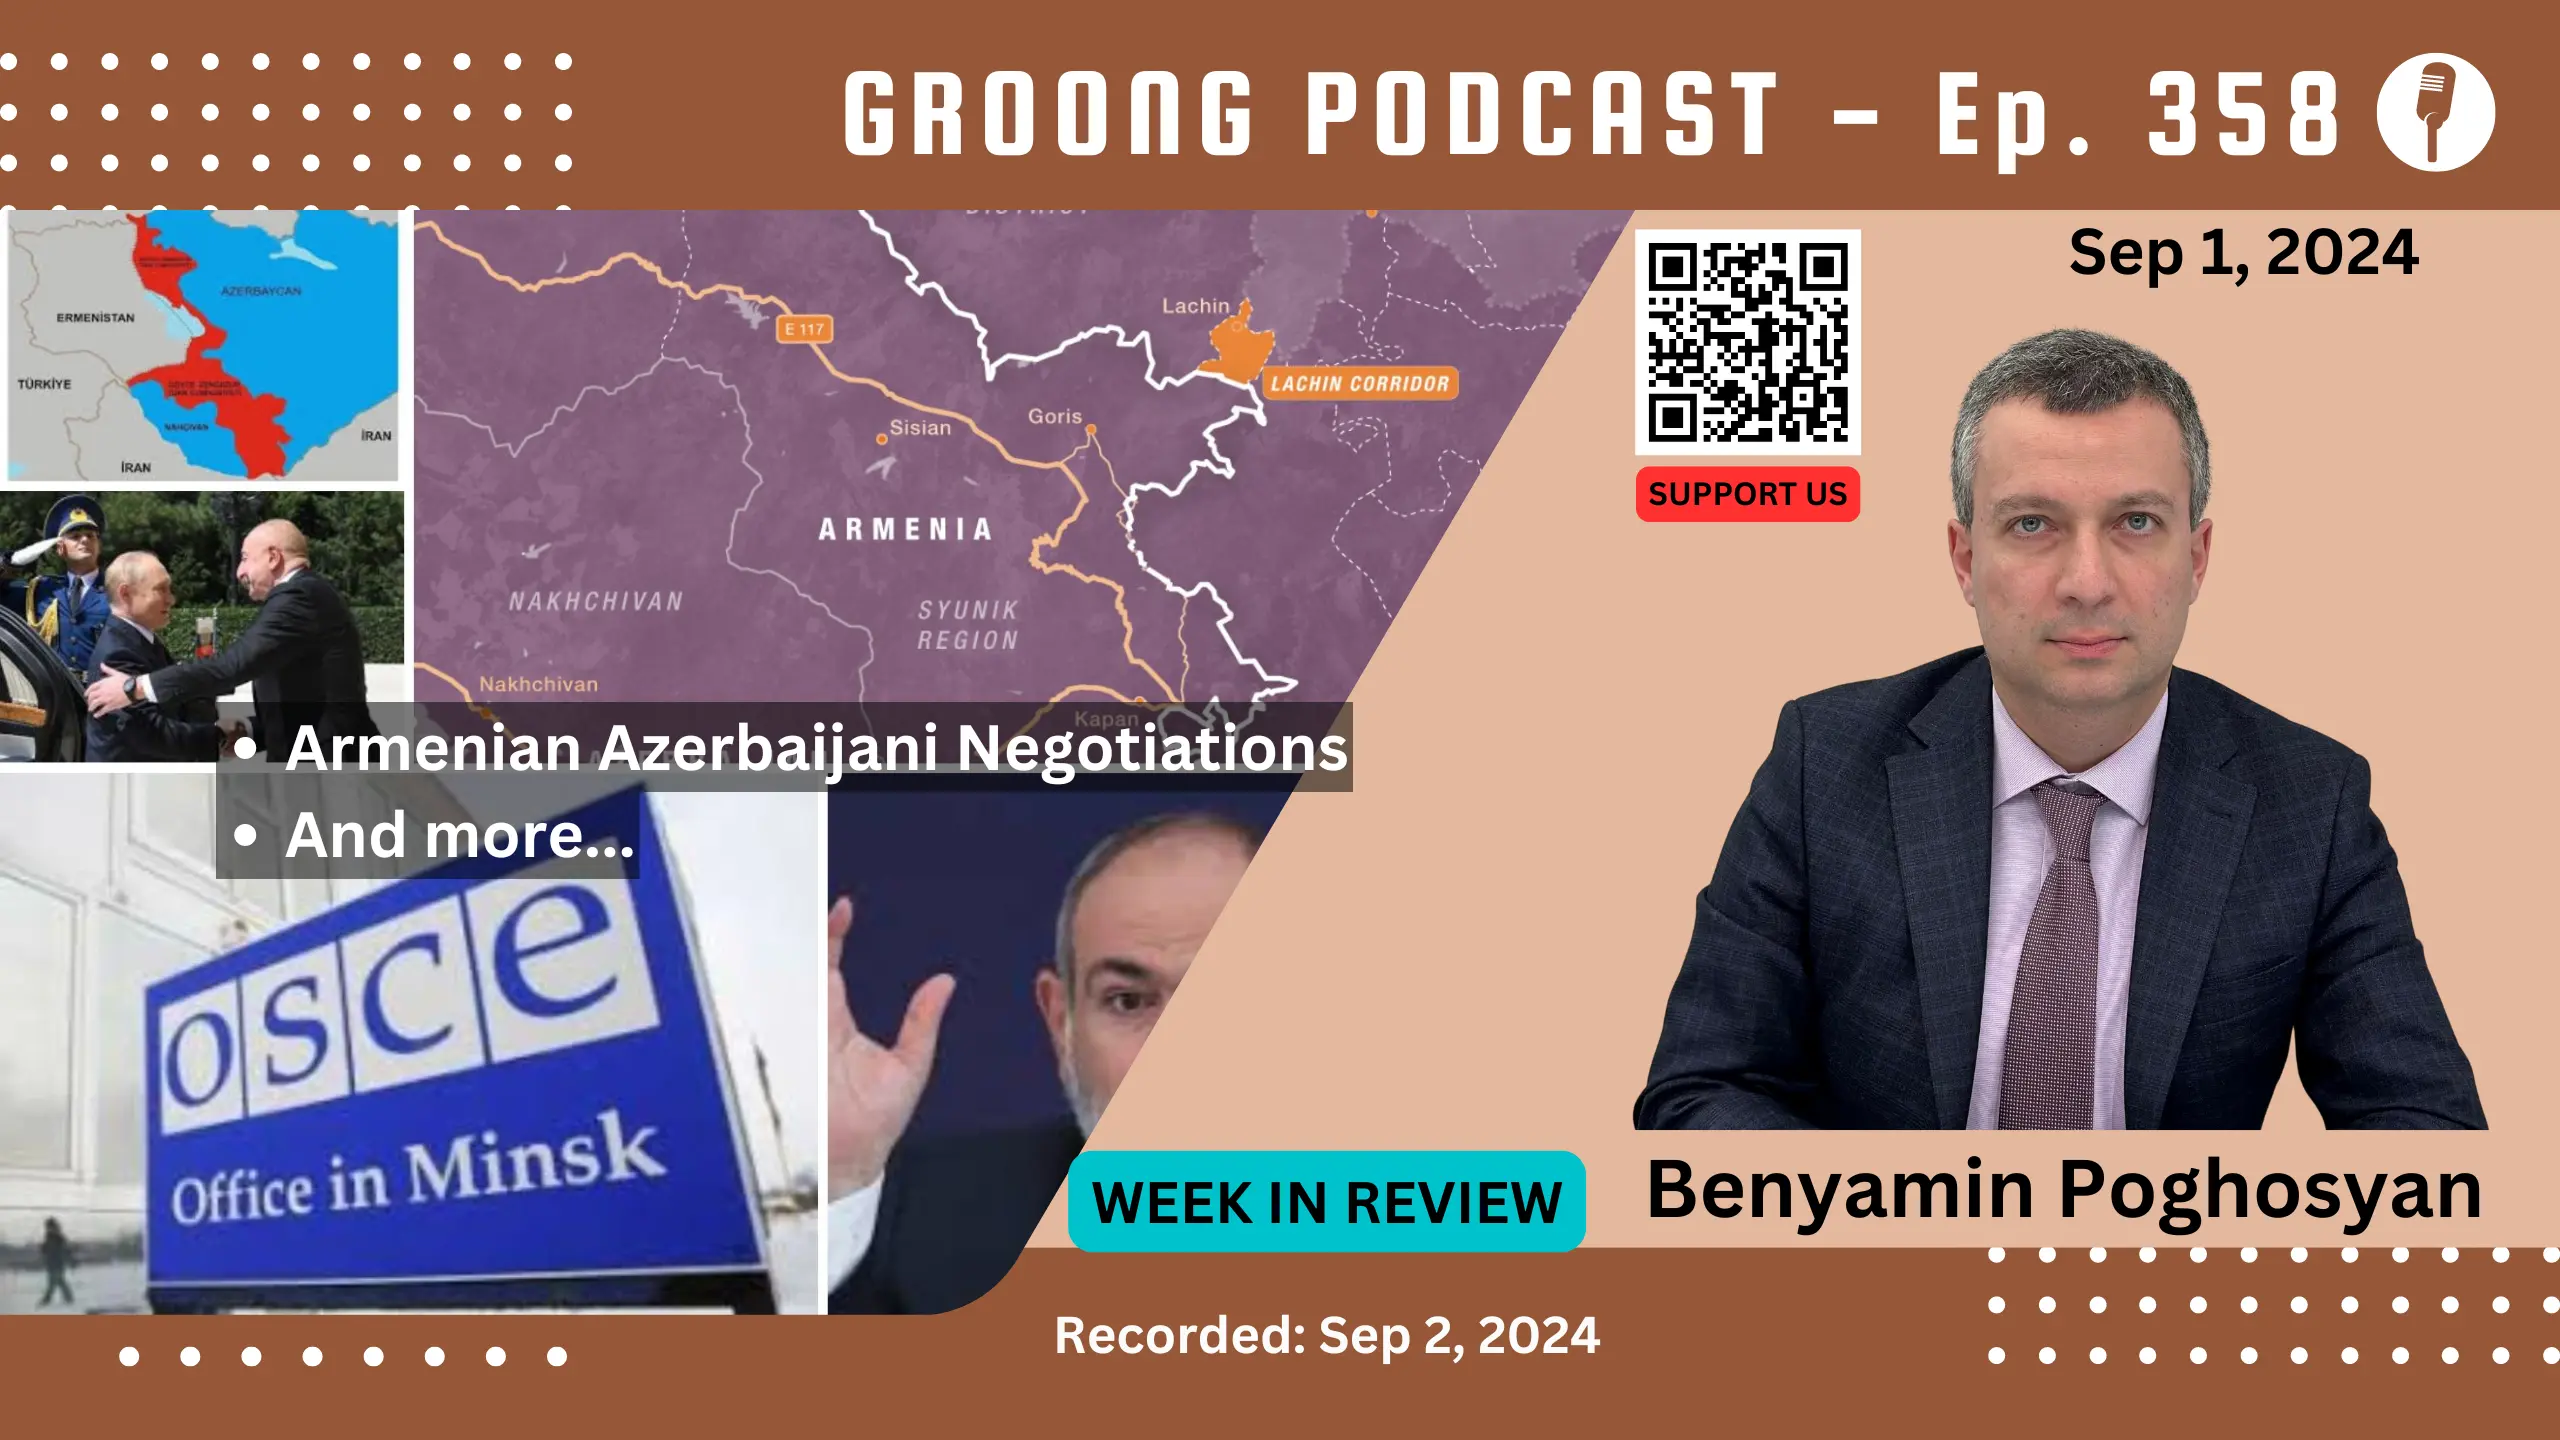
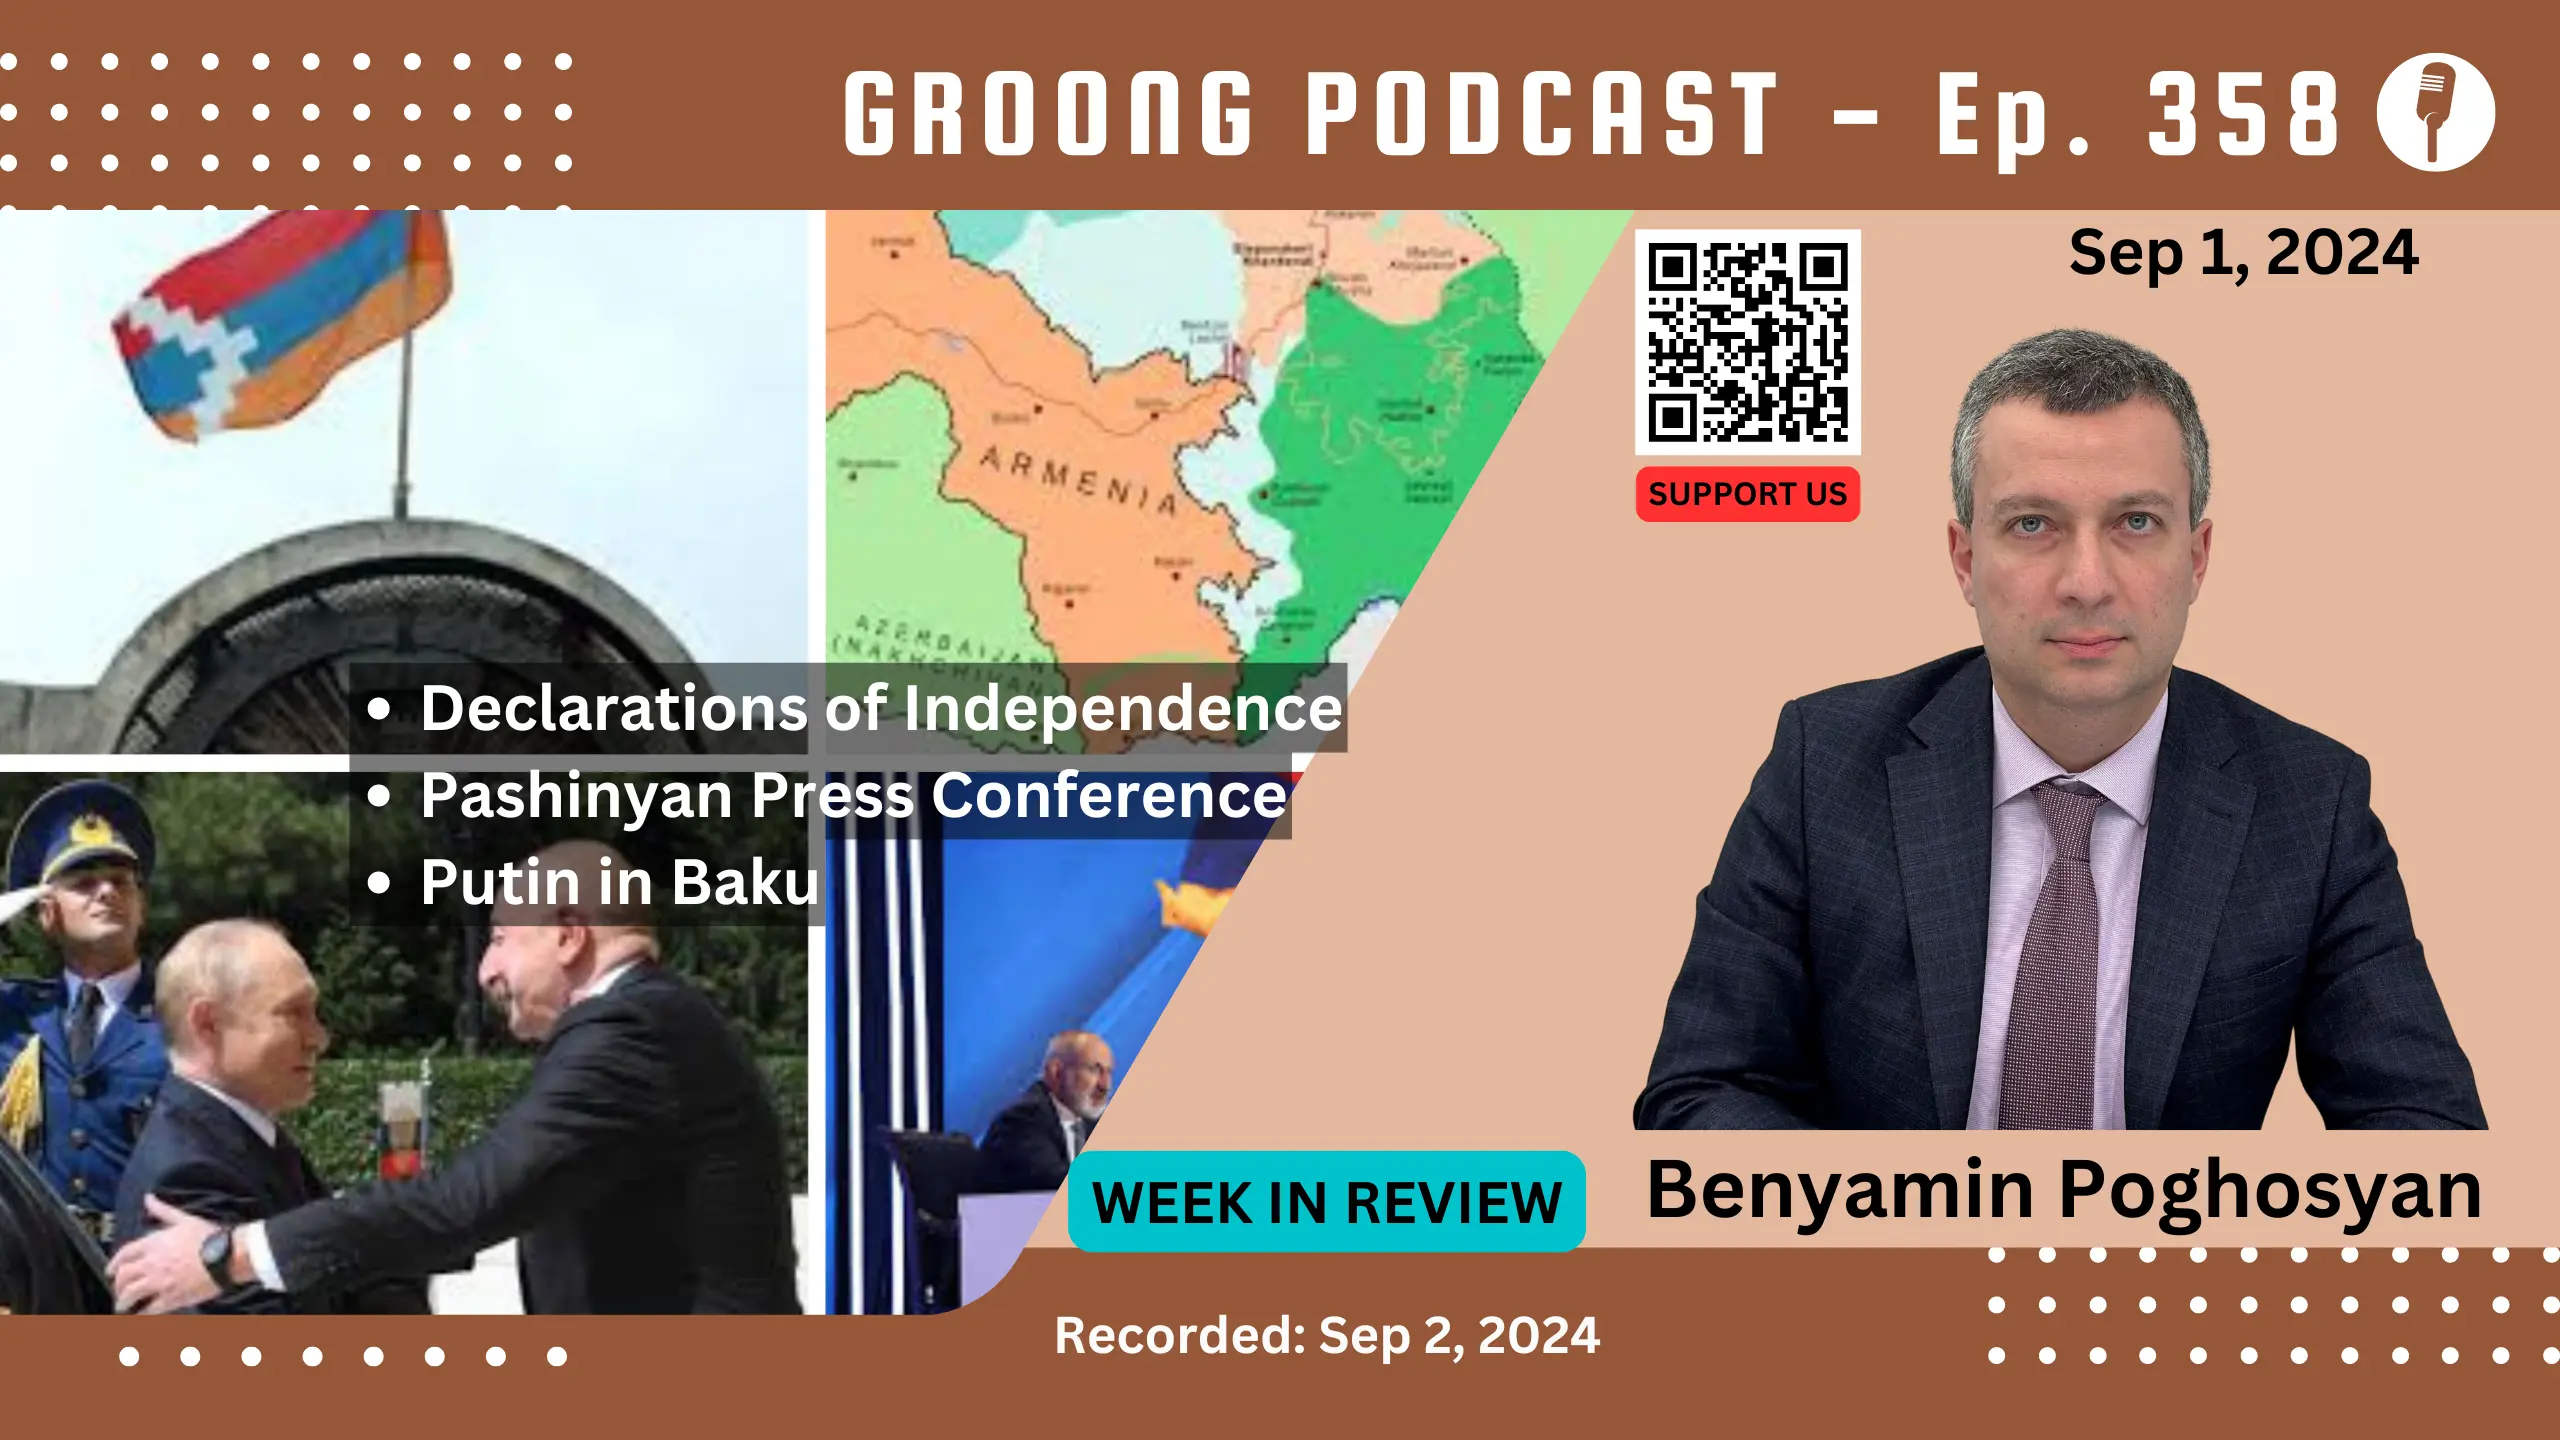
Updating ep 358

diff --git a/content/episode/358-benyamin-poghosyan-declarations-of-armenian-and-nagorno-karabakh-independence-putin-in-baku-azerbaijan-applies-to-brics.md b/content/episode/358-benyamin-poghosyan-declarations-of-armenian-and-nagorno-karabakh-independence-putin-in-baku-azerbaijan-applies-to-brics.md
@@ -1,0 +1,159 @@
++++
+
+Date = 2024-09-03T00:15:00-04:00
+upcoming = true
+
+title = "Benyamin Poghosyan - Armenia, Artsakh, Pashinyan Press Conf, Putin in Baku  | Ep 358 - Sep 1, 2024"
+subtitle = "Groong Week in Review - September 1, 2024"
+
+podcast_file = ""
+podcast_bytes = ""
+podcast_duration = ""
+youtube = ""
+
+episode_image = "img/episode/358/thumbnail-358.webp"
+episode_banner = "img/episode/358/banner-358.webp"
+images = ["img/episode/358/banner-358.webp"]
+
+hosts = ["asbed","hovik"]
+guests = ["bpoghosyan"]
+episode = "358"
+aliases = ["/358"]
+
+series = ["wir"]
+categories = ["Armenia", "Artsakh"]
+tags = ["Armenian News", "Artsakh", "Nagorno Karabakh", "Azerbaijan", "Peace Treaty", "Benyamin Poghosyan", "Agreement in Principle", "South Caucasus", "Turkey", "Russia", "Zangezur Corridor", "Borders", "Peace Negotiations", "United States", "Iran", "Russian Gas", "TANAP", "Trans Adriatic", "Middle Corridor", "North-South Corridor", "East-West Corridor", "Ilham Aliyev", "Vladimir Putin", "Nikol Pashinyan", "Azerbaijan China Partnership", "Georgia China Partnership", "September 2", "August 23", "Declaration of Independence"]
+
+Description = """
+
+#### Groong Links:
+* [GIVE to GROONG](https://podcasts.groong.org/donate)
+* [linktr.ee/Groong](https://linktr.ee/groong)
+
+#### Guest:
+* [Benyamin Poghosyan](/guest/bpoghosyan)
+
+#### Topics:
+* Armenia Azerbaijan Talks
+* Declarations of Independence
+    * Declaration of State Sovereignty of Armenia (1990)
+    * Artsakh Independence Day - September 2 (1991)
+* Pashinyan Press Conference
+    * Negotiations Formats
+    * Artsakh Rights & Security as Pashinyan’s “National Security” Problem
+    * Armenian and Azerbaijani Constitutions
+    * Liberating Occupied Armenian Territories
+* Putin in Baku
+    * Azerbaijan’s Application to BRICS
+
+Episode 358 | Recorded: September 2, 2024
+"""
+
++++
+
+## Declarations of Independence
+
+The past 10 days were memorable with 2 notable anniversaries:
+* On August 23, 1990 the declaration of state sovereignty was adopted in the Supreme Soviet of the Armenian SSR. 
+* On September 2, 1991 the Republic of Artsakh declared its independence from the Soviet Union.
+
+It is interesting to note that the August 23 declaration in Armenia referred to the desire to unify the Armenian SSR, Nagorno Karabakh (NKAO), and the region of Shahumyan. Meanwhile, a year later, the authorities of Artsakh at the time decided to go for full independence, with their declaration.
+
+And here we are, 33 years later from that date with an ethnically cleansed Artsakh and Azerbaijan demanding that Armenia’s own constitution be changed to remove any vestiges or reminders that there ever was something called Karabakh. And of course, we have a regime in Armenia that appears to be yielding to one demand after another. At best, Pashinyan is trying to wiggle away using word play.
+
+This week was no different as in a publicized [statement](https://www.primeminister.am/en/statements-and-messages/item/2024/08/23/Nikol-Pashinyan-Announcement/) on the occasion, Pashinyan tried to make the argument that the entire declaration of independence need not be addressed literally.
+
+**Question**:
+* What are your thoughts about the significance of this day, Pashinyan’s statement, and attempts to change the constitution?
+
+
+## Pashinyan Press Conference
+
+Two days ago on Saturday, August 31, Pashinyan held a [press conference](https://en.armradio.am/2024/08/31/live-prime-minister-nikol-pashinyans-press-conference-2/). Let’s review some of the points from that event.
+
+
+### Negotiation Formats
+
+He [said](https://armenpress.am/en/article/1198723) that on Friday (the 30th of August) Armenia proposed to Azerbaijan to sign the latest draft of the “peace treaty” as is, with 13 out of 17 points in the agreement fully agreed upon. The rest would be worked on, going forward. He [offered](https://armenpress.am/en/article/1198717) to meet Aliyev on the border between the two countries to discuss bilaterally. 
+
+Of course, Azerbaijan immediately [rejected](https://www.azatutyun.am/a/33102785.html) this idea, saying that the Pashinyan team had simply deleted the contentious references, including the demand to change Armenia’s constitution. It’s important to note that in these “bilateral negotiations” the sides appear to be simply emailing each other a Microsoft Word document, with “Track Changes” turned on.
+
+**Questions:**
+* Do you think there’s enough trust or goodwill between Armenia and Azerbaijan, or just between Pashinyan and Aliyev, that bilateral negotiations can yield any positive results for Armenia?
+* Do we know what the 17 points are, and which 13 points have been fully agreed upon?
+* Is Azerbaijan’s posture simply meant to throw a monkey wrench in the negotiations, and remove any possibility for a peace treaty, however vacuous that treaty will be?
+
+
+### Armenia and Azerbaijan Constitutions
+
+Pashinyan [stated](https://armenpress.am/en/article/1198730) that the Armenian constitution does not contain claims on Azeri territory, but Azerbaijan’s constitution does contain significant claims to Armenian, as well as Georgian territories. He pointed out that Azerbaijan lays claim to 45-46,000 square kilometers of additional territories in the South Caucasus, but that he’s not bringing up this issue in the negotiations because it would block the talks.
+
+Supposedly he’s relying on a clause in the agreement that stipulates that domestic law may not be used to block any part of the agreement.
+
+**Question:**
+* Does this stipulation in the agreement about domestic laws give you the warm and fuzzies about living securely in Armenia?
+
+
+### Artsakh Pashinyan’s National Security Problem?
+
+Pashinyan [blasted](https://armenpress.am/en/article/1198720) Artsakh officials in Armenia who have demanded that Armenia stand up for their right to return home. He said that their demands go counter to Armenia’s national security, and that the 1996 Lisbon Principles turned the Artsakh problem into an Armenia problem.
+
+He conveniently avoided discussing his washing of his hands of 150,000 Armenians, their homeland, and their rights and security, when he one-sidedly signed the Prague agreement in 2022.
+
+The Lisbon Principles stipulated territorial integrity of Armenia & Azerbaijan, legal status for Artsakh, and rights and security for them. Then came the Madrid Principles which stipulated territorial integrity of Armenia & Azerbaijan, self-determination for Artsakh, and right of return of all IDPs, rights & security, and demilitarization.
+
+**Questions:**
+* With what logic is Pashinyan blaming Artsakh for its own ethnic cleansing, and claiming that their rights and security, which Aliyev had agreed to, run counter to Armenia’s national security?
+* Pashinyan has reportedly also [agreed in principle](https://armenpress.am/en/article/1198727) to jointly apply to dissolve the OSCE MG. Does Pashinyan have the right to do this?
+
+
+### Liberating Armenian Sovereign Territories
+
+Pashinyan also [said](https://armenpress.am/en/article/1198731) that Armenia does not seek to restore its sovereignty over the 200 square kilometers of territory currently occupied by Azerbaijan, through military force. He said he believes that this can be done through peaceful negotiations.
+
+**Questions:**
+* Do you expect that Azerbaijan will peacefully move out of Armenian territory when a so-called “peace treaty” is signed?
+* Is this territorial restitution part of the 17 points in the document?
+    * Note: Aliyev has said he’s not moving his troops back one inch.
+
+
+## Putin in Azerbaijan
+
+Two weeks ago Russian president Putin was in Baku on a rare, but lavish [two-day state visit](https://www.specialeurasia.com/2024/08/19/putin-visit-baku-caucasus/). He took with him a large contingent of government officials. He joined Aliyev in his residence for dinner, lots of hugs and photo ops, several agreements were signed to enhance economic, strategic, and political relations, and in particular emphasizing and extending their strategic partnership under the Declaration of Allied Interaction until 2026.
+
+**Questions:**
+* What were the main outcomes of Putin’s visit to Baku, and how does the reinforced strategic partnership between Russia and Azerbaijan affect Armenia?
+* Does the strategic relationship between Russia and Azerbaijan compete with those between Turkey and Azerbaijan? For instance, was Azerbaijan’s recent agreement to defer the “Zangezur Corridor” precondition to a later date a concession to Putin? 
+    * We know that it was the US that had been touting the “Middle Corridor” recently in which it sees Turkey play a central role. So is the delay in coming to an agreement on it essentially a loss for the US?
+    * If so, what did Putin get in return?
+
+Azerbaijan stated that it is willing to sign an agreement with Armenia with Russia as the mediator. Armenia has all but excluded Russia. The West doesn’t have enough levers to impose an agreement on Azerbaijan, and we’re not sure if bilateral talks are yielding any real results. Rather, it seems like all the substantial differences are being excluded in favor of signing an agreement on principles alone.
+
+**Questions:**
+* Where does this leave the talks between Armenia and Azerbaijan?
+
+
+### Azerbaijan’s Application to BRICS
+
+The day after Putin’s visit Azerbaijan [applied](https://www.civilnet.am/en/news/794058/azerbaijan-formally-applies-to-join-russia-and-china-led-economic-bloc-brics/) for membership in BRICS. Clearly this was a topic discussed between the countries and Putin approved of the idea. So this would seem to put Azerbaijan in the first step of its membership application.
+
+Armenia, meanwhile, [launched](https://bm.ge/en/news/international-conference-on-armenias-cooperation-with-brics-and-sco-to-be-held-in-yerevan) an Armenia-BRICS Business Cooperation Center. This is not formally a stage of membership application.
+
+**Questions:**
+* Where does Azerbaijan’s application position the country, within the various world economic alignments, whether the East, the West, the Global South, or otherwise?
+* What is the Armenia-BRICS initiative about?
+* How does alignment with BRICS alter the South Caucasus, and also, where is Georgia in relation with BRICS?
+
+Alright, that’s it for today. Let me ask you if there's something on your mind that you want to share.
+
+
+## Topics from the Panelists
+* **Benyamin**: Armenia without Artsakh is very vulnerable; All Armenians should think about how to reduce this vulnerability
+* **Hovik**: Sep. 2 as a symbol of what Armenia and Diaspora united as a Nation can achieve, to keep on our agenda
+
+
+# Wrap-up
+
+That's our [Week in Review](https://podcasts.groong.org/), we hope you found it helpful. We invite your feedback and your suggestions, you can [find us](https://linktr.ee/groong) on most social media and podcast platforms.
+
+Thanks to __Laura Osborn__ for the music on our podcasts.
